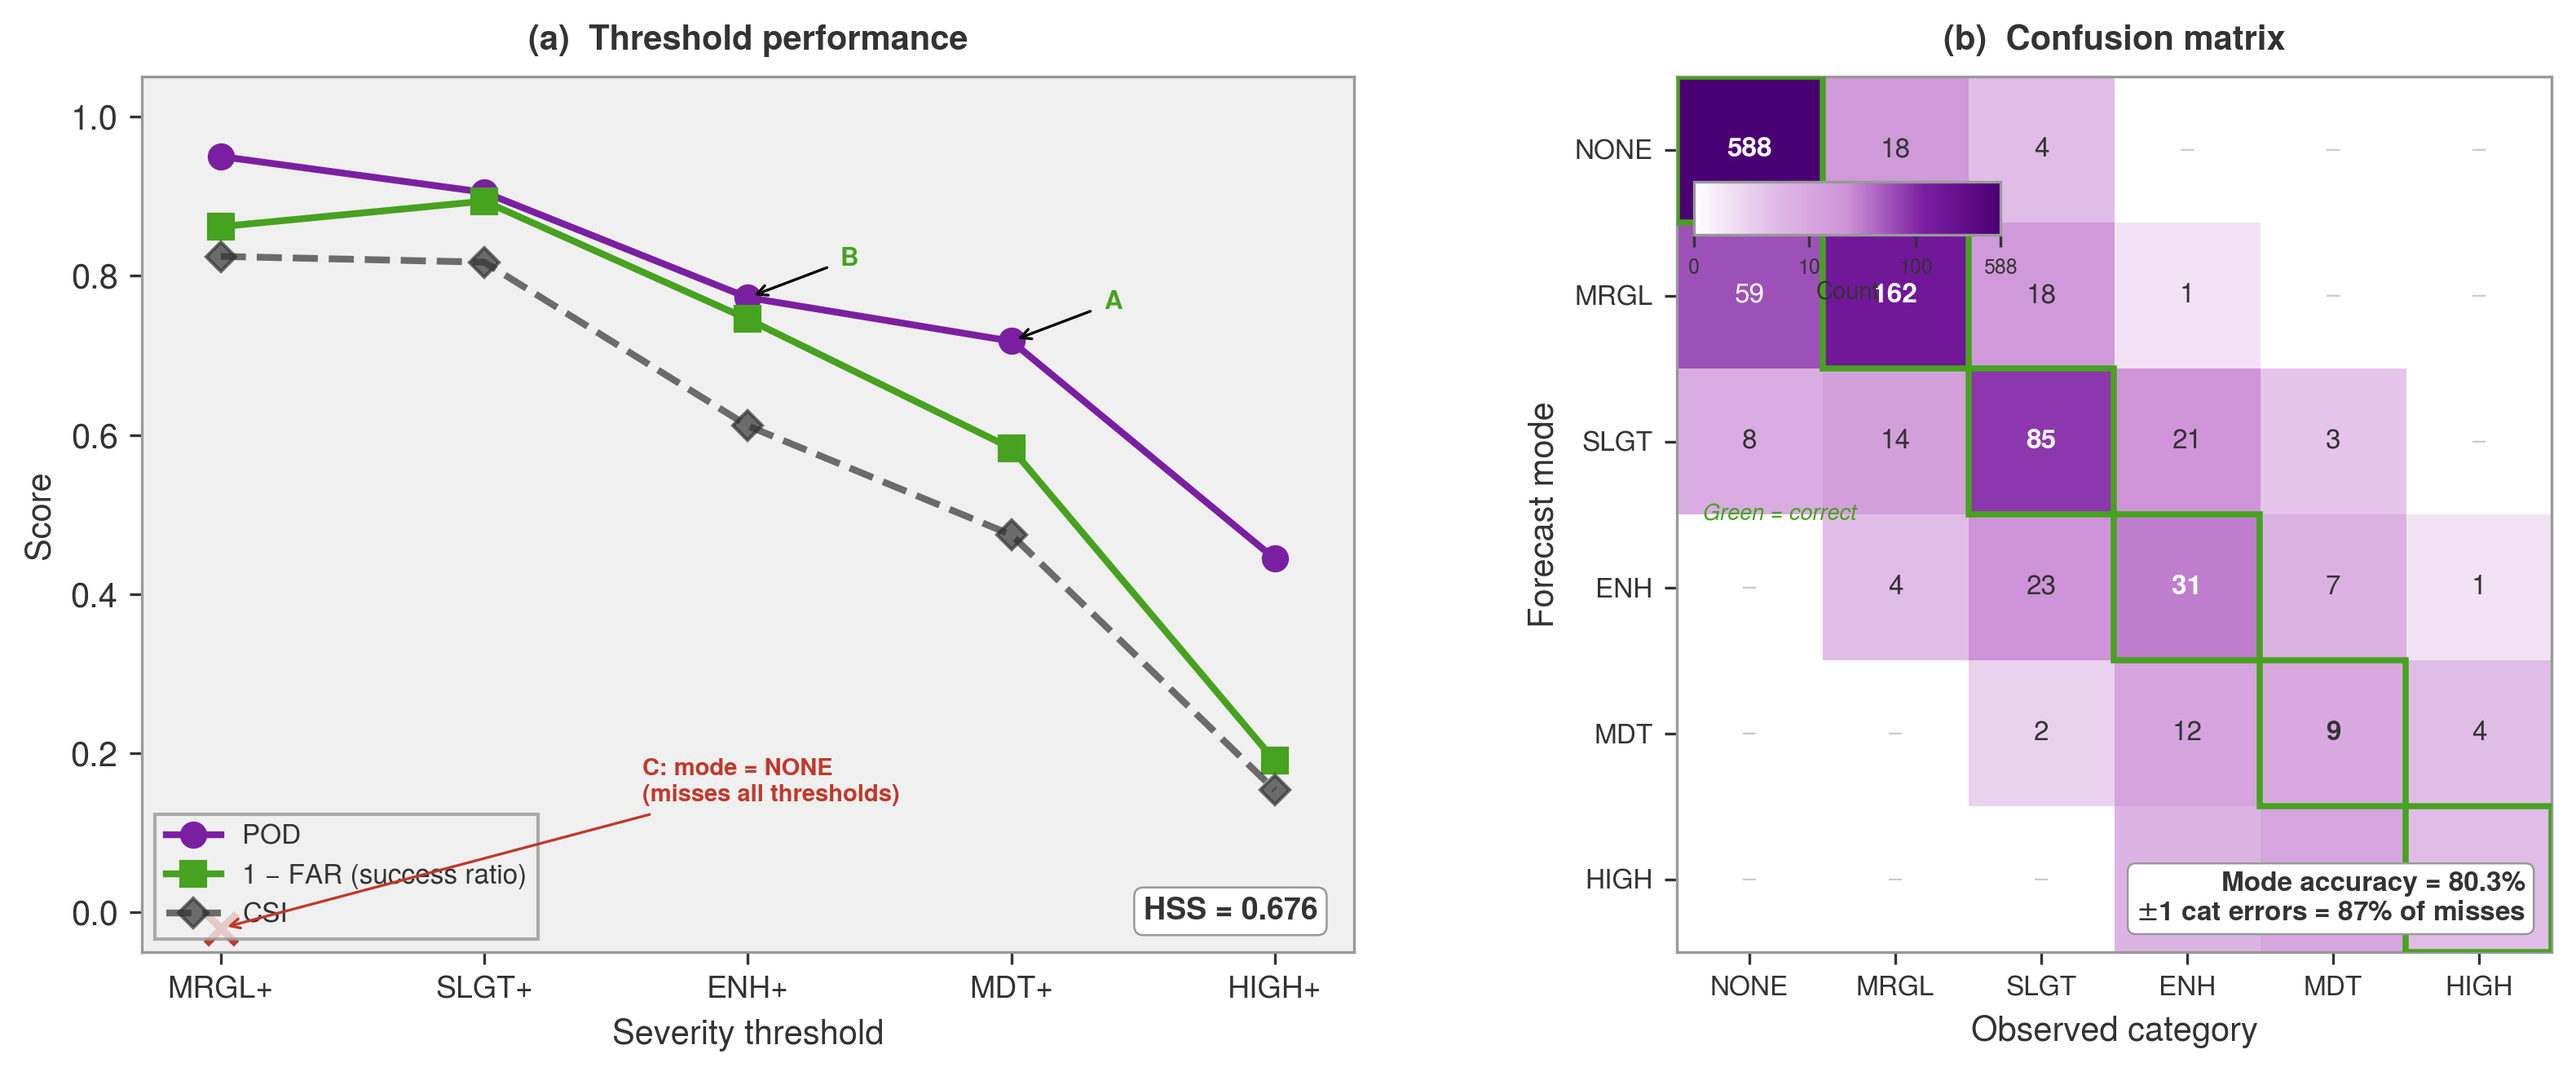
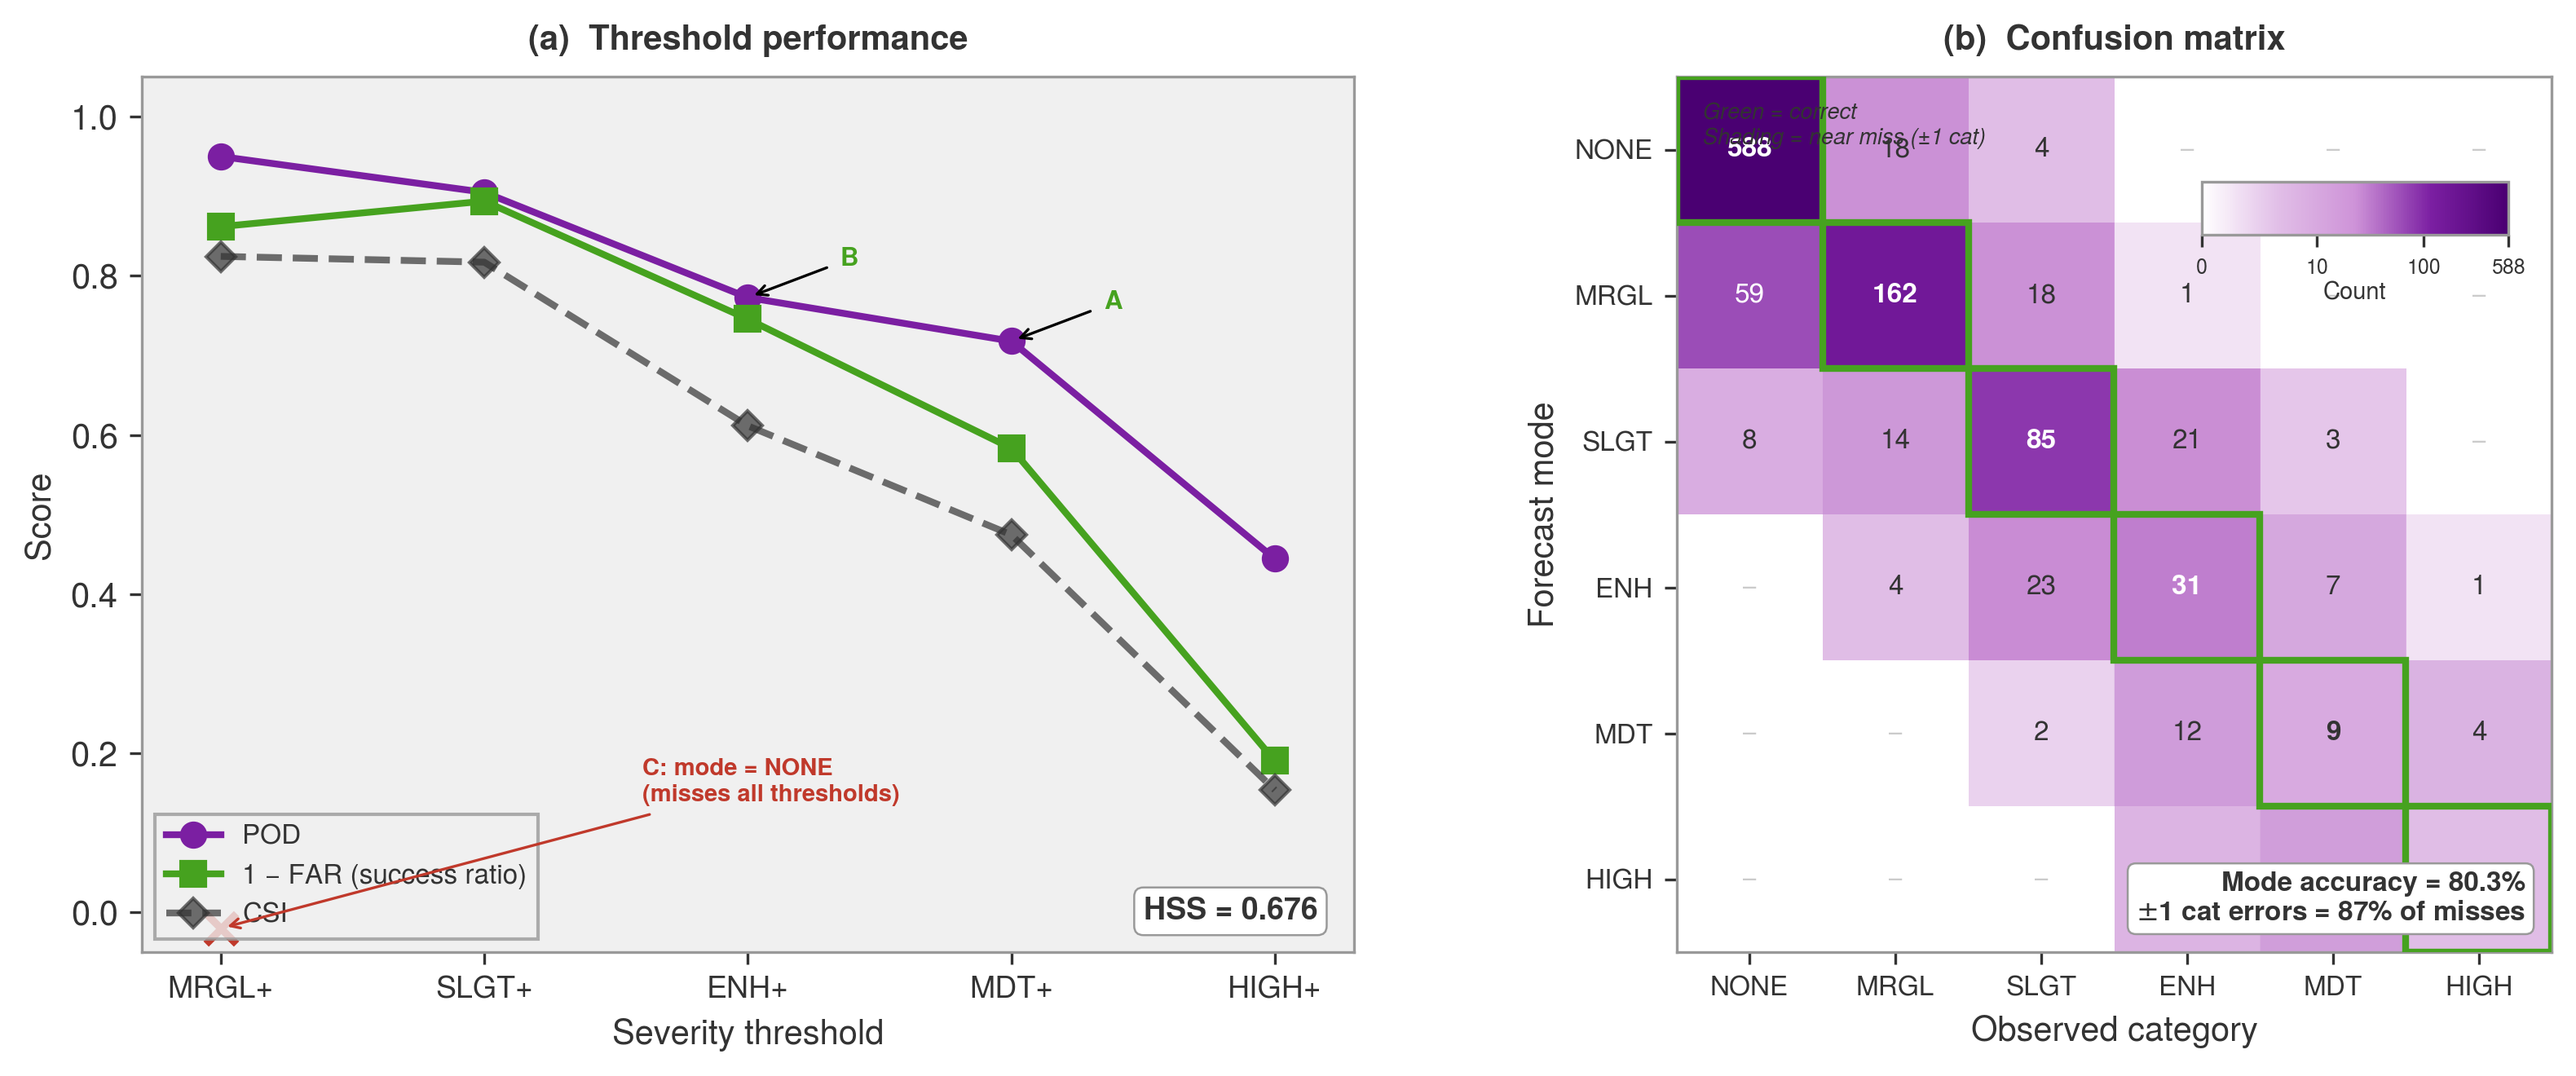
Confusion-matrix colorbar fix and severity-matrix scenario overlays
Fig 9b: colorbar moved top-right (was hiding the 588-count cell),
added ±1 off-diagonal shading for near-miss pattern.
Fig 12: scenario A/B/C overlaid with green/red borders, dashed red
arrow from C's forecast (NONE) to truth (MDT) to show the miss.

diff --git a/scripts/fig_categorical_scores.py b/scripts/fig_categorical_scores.py
@@ -208,11 +208,21 @@ def main():
             ax_conf.text(c, r, str(val), ha="center", va="center",
                          fontsize=8, fontweight=fontw, color=txt_color)
 
+    # ±1 off-diagonal shading (near-miss cells)
+    for r in range(SPC_N):
+        for c in range(SPC_N):
+            if r != c and abs(r - c) == 1:
+                ax_conf.add_patch(plt.Rectangle(
+                    (c - 0.5, r - 0.5), 1, 1, fill=True,
+                    facecolor=PURPLE, alpha=0.06, edgecolor="none",
+                    zorder=1,
+                ))
+
     # Diagonal highlight
     for k in range(SPC_N):
         ax_conf.add_patch(plt.Rectangle(
             (k - 0.5, k - 0.5), 1, 1, fill=False,
-            edgecolor=GREEN, linewidth=1.8, zorder=3,
+            edgecolor=GREEN, linewidth=2.0, zorder=3,
         ))
 
     ax_conf.set_xticks(range(SPC_N))
@@ -225,7 +235,7 @@ def main():
                       fontweight="bold", pad=8)
 
     # Colorbar inset (top-left of panel b)
-    cax = ax_conf.inset_axes([0.02, 0.82, 0.35, 0.06])
+    cax = ax_conf.inset_axes([0.60, 0.82, 0.35, 0.06])
     cbar = fig.colorbar(im, cax=cax, orientation="horizontal")
     cbar.set_ticks([0, np.log10(11), np.log10(101), vmax])
     cbar.set_ticklabels(["0", "10", "100", str(int(conf.max()))])
@@ -250,11 +260,11 @@ def main():
                   edgecolor=MID_GREY, linewidth=0.6),
     )
 
-    # "Green = correct" legend note near diagonal
+    # Legend note
     ax_conf.text(
-        0.03, 0.50, "Green = correct",
-        transform=ax_conf.transAxes, ha="left", va="center",
-        fontsize=6.5, fontstyle="italic", color=GREEN,
+        0.03, 0.97, "Green = correct\nShading = near miss (±1 cat)",
+        transform=ax_conf.transAxes, ha="left", va="top",
+        fontsize=6.5, fontstyle="italic", color=DARK_GREY,
     )
 
     fig.tight_layout(w_pad=3.0)

diff --git a/scripts/fig_severity_matrix.py b/scripts/fig_severity_matrix.py
@@ -87,6 +87,33 @@ def main():
         ax.text(col, row, label, ha="center", va="center",
                 fontsize=8, fontweight="bold", color=text_color)
 
+    # --- Scenario overlays ---
+    MISS_RED = "#C0392B"
+    # A: MDT (row 4), H_Pi=0.10 → Very high confidence (col 4)
+    # B: ENH (row 3), H_Pi=0.45 → Medium confidence (col 2)
+    # C forecast: NONE (row 0), H_Pi=0.15 → High confidence (col 3)
+    scenario_cells = [
+        ("A", 4, 4, GREEN),      # MDT × Very high → Act (correct)
+        ("B", 3, 2, GREEN),      # ENH × Medium → Prepare (correct)
+        ("C", 0, 3, MISS_RED),   # NONE × High → Monitor (wrong)
+    ]
+    for ltr, row, col, color in scenario_cells:
+        ax.add_patch(plt.Rectangle(
+            (col - 0.45, row - 0.45), 0.9, 0.9, fill=False,
+            edgecolor=color, linewidth=2.5, zorder=5,
+        ))
+        ax.text(col + 0.38, row + 0.38, ltr, fontsize=8,
+                fontweight="bold", color=color, ha="right", va="top",
+                zorder=6)
+
+    # Dashed red arrow from C's forecast cell (NONE, High) to C's truth (MDT, High)
+    ax.annotate("", xy=(3, 4), xytext=(3, 0.5),
+                arrowprops=dict(arrowstyle="-|>", color=MISS_RED,
+                                linewidth=1.5, linestyle="--"),
+                zorder=5)
+    ax.text(3.48, 2.0, "C miss", fontsize=7, fontstyle="italic",
+            color=MISS_RED, ha="left", va="center", rotation=90)
+
     # Axes
     ax.set_xticks(range(n_conf))
     ax.set_xticklabels(confidence_labels, fontsize=8)
